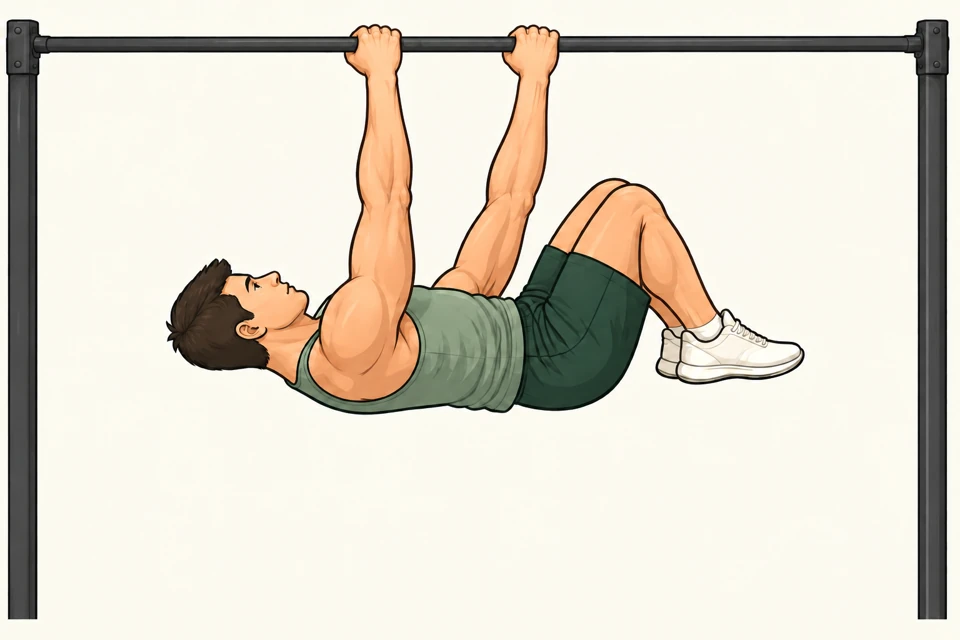
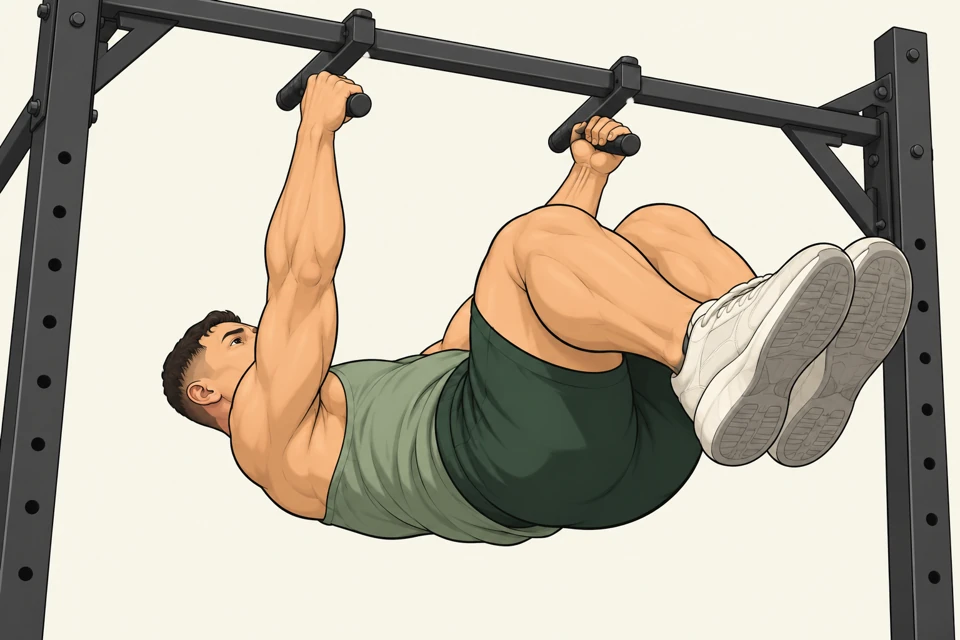
Recompose tuck front lever in perspective using real-photo references

diff --git a/README.md b/README.md
@@ -305,3 +305,8 @@ Bruno adds **Cadeira abdutora** on Wednesday, **Abdominal no banco declinado** o
 After the user confirmed **tuck front lever on the bar**, image 24 is replaced by a clearer built-in imagegen illustration: horizontal suspended torso, straight arms, a matched pronated grip like a normal pull-up, tucked knees and feet visibly clear of the support posts. The existing image index is retained so the home cover, catalog and exercise zoom use it consistently offline. Source PNG and exact prompt are in `assets/tuck-front-lever-v2/`.
 
 `src/brunoAdditions.test.ts` covers additive/idempotent migration, manual duplicates, stored rope loads, session-only six-set dips, archived history and other profiles. The routine browser check verifies updated quantities, muscle drilldowns, images, backup upgrade preservation and offline access.
+
+
+## Tuck front lever perspective revision
+
+Image 24 is recomposed in an oblique three-quarter view with foreshortened knees/shoes in the foreground, torso suspended behind them, straight arms and horizontal parallel neutral-grip handles on an ordinary pullup rack. This replaces the earlier flat side view; the user explicitly permitted neutral grip to clarify the posture. No routine, load, series or session data changes. Built-in imagegen source and exact prompt/reference URLs are in `assets/tuck-front-lever-perspective/`. Real-photo references were inspected from Calisteniapp (basic tuck pose), Worked Out Fitness (suspension perspective) and Exercises.com.au (neutral-grip hardware). Reference photos remain in ignored local artifacts and are not distributed with the app. The existing image index keeps exercise zoom, Saturday cover and offline asset mapping intact.
